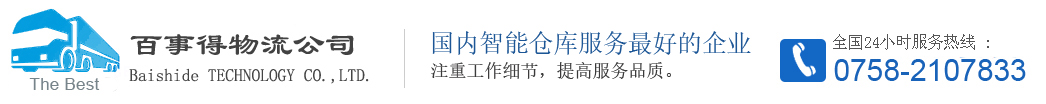
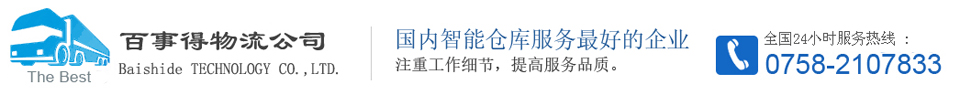
nav

diff --git a/Public/css/style.css b/Public/css/style.css
@@ -11,7 +11,7 @@ body{font-family:'微软雅黑'}
 /* 公用样式 */
 .nav{height:149px;}
 .nav-top{height:104px;}
-.nav-header{width:1046px;height:104px;}
+.nav-header{width:960px;height:100px;}
 .nav-logo{padding-top:18px;padding-left:80px;font-size:20px;font-family:company!important;color:#39277B;}
 .nav-image{margin-top:5px;width:250px;height:50px;}
 .nav-tell{width:250px;height:25px;}

diff --git a/App/Runtime/Cache/Home/00e52909bed743ea261af4b6823297ff.php b/App/Runtime/Cache/Home/00e52909bed743ea261af4b6823297ff.php
@@ -1,0 +1,109 @@
+<?php if (!defined('THINK_PATH')) exit();?><!DOCTYPE html>
+<html xmlns="http://www.w3.org/1999/xhtml">
+<head>
+<meta http-equiv="Content-Type" content="text/html; charset=utf-8" />
+<title>首页-百事得物流公司</title>
+<link rel="stylesheet" href="/bestlog/Public/css/base.css" />
+<link rel="stylesheet" href="/bestlog/Public/css/style.css" />
+</head>
+
+<body>
+    <div class="nav">
+    <div class="nav-top">
+        <div class="nav-header bc">
+			<img src="/bestlog/Public/images/top.jpg" alt="百事得" />
+        </div>	
+    </div>
+    <div class="nav-bottom">
+		<div class="nav-list bc">
+            <ul class="nav-ui">
+                <li id="Index" class="inline active"><a href="<?php echo U('Index/index');?>">公司首页</a></li>
+                <li id="Comp" class="inline"><a href="<?php echo U('Comp/index');?>">公司概况</a></li>
+                <li id="Service" class="inline"><a href="<?php echo U('Service/index');?>">服务产品</a></li>
+                <li id="Case" class="inline"><a href="<?php echo U('Case/index');?>">案例展示</a></li>
+                <li id="News" class="inline"><a href="<?php echo U('News/index');?>">新闻资讯</a></li>
+            </ul>
+        </div>
+    </div>
+</div>
+    <div class="blankarea1"></div>
+		<div class="homepage bc">        
+			<img src="/bestlog/Public/images/nav-top.jpg" alt="百事得宣传"  />
+			<div class="blankarea2"></div>
+			<div class="news fl">
+				<div class="news-images fl">
+					<img src="/bestlog/Public/images/wuliu.png" alt="新闻图片" height="300px" width="450px"/>
+				</div>
+				<div class="news-list fr">
+					<h3 class="fl">公司新闻</h3>
+					<div class="news-more fr">
+						<a class="fr" href="news.html">+More</a>
+					</div>
+					<ul class="news-ul fl">
+						<li><a href="">中国广东肇庆百事得物流有限公司</a><span>2016-02-16</span></li><hr />
+						<li><a href="">2016年2月中国物流业景气指数</a><span>2016-02-16</span></li><hr />
+						<li><a href="">全球新兴市场物流指数排名</a><span>2016-02-16</span></li><hr />
+						<li><a href="">中国广东肇庆百事得物流有限公司</a><span>2016-02-16</span></li><hr />
+						<li><a href="">2016年2月中国物流业景气指数</a><span>2016-02-16</span></li><hr />
+						<li><a href="">全球新兴市场物流指数排名</a><span>2016-02-16</span></li>
+					</ul>
+				</div>            
+			</div>
+			<div class="blankarea2 fl"></div>
+			<div class="company fl">
+				<h3 class="fl">公司简介</h3>
+				<div class="company-more fr">
+					<a class="fr" href="information.html">+More</a>
+				</div>
+				<div class="company-content fl">
+					<div class="company-image">
+						<img src="/bestlog/Public/images/wuliu.png" alt="公司图片" width="220px"/>
+					</div>
+					<p class="company-list fr">&nbsp;&nbsp;&nbsp;&nbsp;&nbsp;&nbsp;&nbsp;肇庆市百事得物流有限公司是一家旨在运用RFID技术和网络技术，致力于提供物流标准化整体解决方案的公司。自公司成立以来，一直坚持“自强、诚信、开拓、创新”的立身之本，秉承：“标准规范，高效便捷”的经营宗旨，产品可广泛应用于商贸连锁企业、电商物流企业、快消品生产企业、药品流通企业、农产品流通企业等，有效帮助企业节约物流成本，提高物流效率。</p>
+				</div>
+            </div>  
+			<div class="contact fr">
+				<h3>联系我们</h3>
+				<ul>
+					<li>公司名称：百事得物流有限公司</li>
+					<li>官网：www.zqbestlog.com</li>
+					<li>邮编：516000</li>
+					<li>合作热线：0758-2107833</li>
+					<li>联系邮箱: baishidewuliu@163.com</li>  
+				</ul>
+            </div>
+            <div class="suit fl">
+            	<div class="suit-area">
+                	<h3 class="fl">适用场合</h3>
+                    <div class="suit-more fr">
+                		<a class="fr" href="service.html">+More</a>
+           			</div>
+            	</div>
+                <div class="suit-image">
+                	<img src="/bestlog/Public/images/huojia1.jpg" alt="货架与托盘管理"  />
+                    <img src="/bestlog/Public/images/wupin1.jpg" alt="物品查找系统"  />
+                    <img src="/bestlog/Public/images/wuliu1.jpg" alt="物流运输"  />
+                    <img src="/bestlog/Public/images/lingshou1.jpg" alt="批发与零售管理"  />
+                </div>
+            </div>
+		</div>
+		<div class="footer">
+     <div class="footer-content bc">
+        <div class="footer-line fl">
+        	<ul>
+                <li class="inline"><a href="">关于我们 | </a></li>
+                <li class="inline"><a href="">联系我们 | </a></li>
+                <li class="inline"><a href="">信息反馈 | </a></li>
+                <li class="inline"><a href="">人才招聘 | </a></li>
+                <li class="inline"><a href="">友情链接 | </a></li>
+                <li class="inline"><a href="">管理进入</a></li>
+           	</ul>
+        </div>
+        <div class="copyright fr">
+           	<p>版权所有  @肇庆市百事得物流有限公司</p>
+        </div>
+    </div>
+</div>
+		<script src="/bestlog/Public/js/jquery.js"></script>
+    </body>
+</html>
